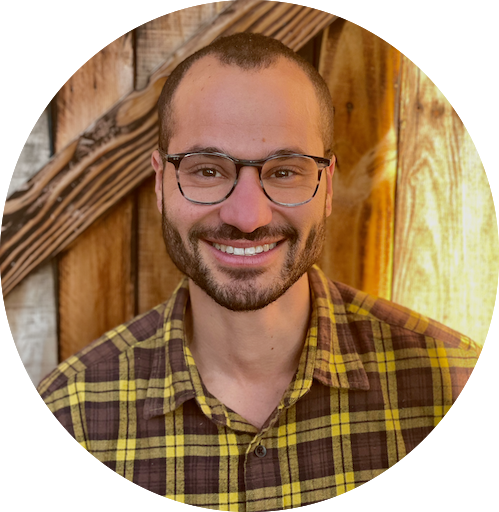
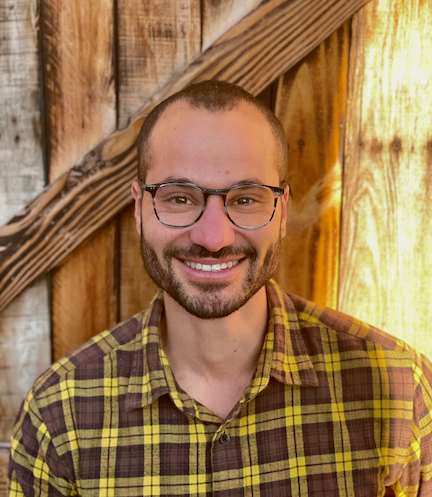
add headshot

diff --git a/pages/components/About.tsx b/pages/components/About.tsx
@@ -1,5 +1,7 @@
-import SectionTitle from "./SectionTitle"
-import { FaOctopusDeploy} from 'react-icons/fa'
+import SectionTitle from "./SectionTitle";
+import { FaOctopusDeploy } from 'react-icons/fa';
+import Image from 'next/image'
+import { headshot } from "@/public/assets";
 
 const About = () => {
   return (
@@ -65,9 +67,33 @@ const About = () => {
               </span>
               Firebase
             </li>
+            <li className="flex items-center gap-2">
+              <span className="text-textGreen">
+                <FaOctopusDeploy />
+              </span>
+              Material UI
+            </li>
+            <li className="flex items-center gap-2">
+              <span className="text-textGreen">
+                <FaOctopusDeploy />
+              </span>
+              Tailwindcss
+            </li>
           </ul>
         </div>
-        <div></div>
+        <div className="w-full lgl:w-1/3 h-80 relative group">
+          <div className="absolute w-full h-80 -left-6 -top-6 rounded-lg">
+            <div className="w-full h-full relative z-20 flex pl-6 lgl:pl-0">
+              <Image
+                className="rounded-lg h-full object-cover"
+                src={headshot}
+                alt="headshot"
+              />
+              <div className="hidden lgl:inline-block absolute w-full h-80 bg-textGreen/20 roudned-md top-0 left-0 group-hover:bg-transparent duration-300"></div>
+            </div>
+            <div className="hidden lgl:inline-flex w-full h-80 translate-x-4 -translate-y-64 border-2 border-textGreen rounded-md group-hover:translate-x-2 group-hover:-translate-y-66 transition-transform duration-300"></div>
+          </div>
+        </div>
       </div>
     </section>
   )
